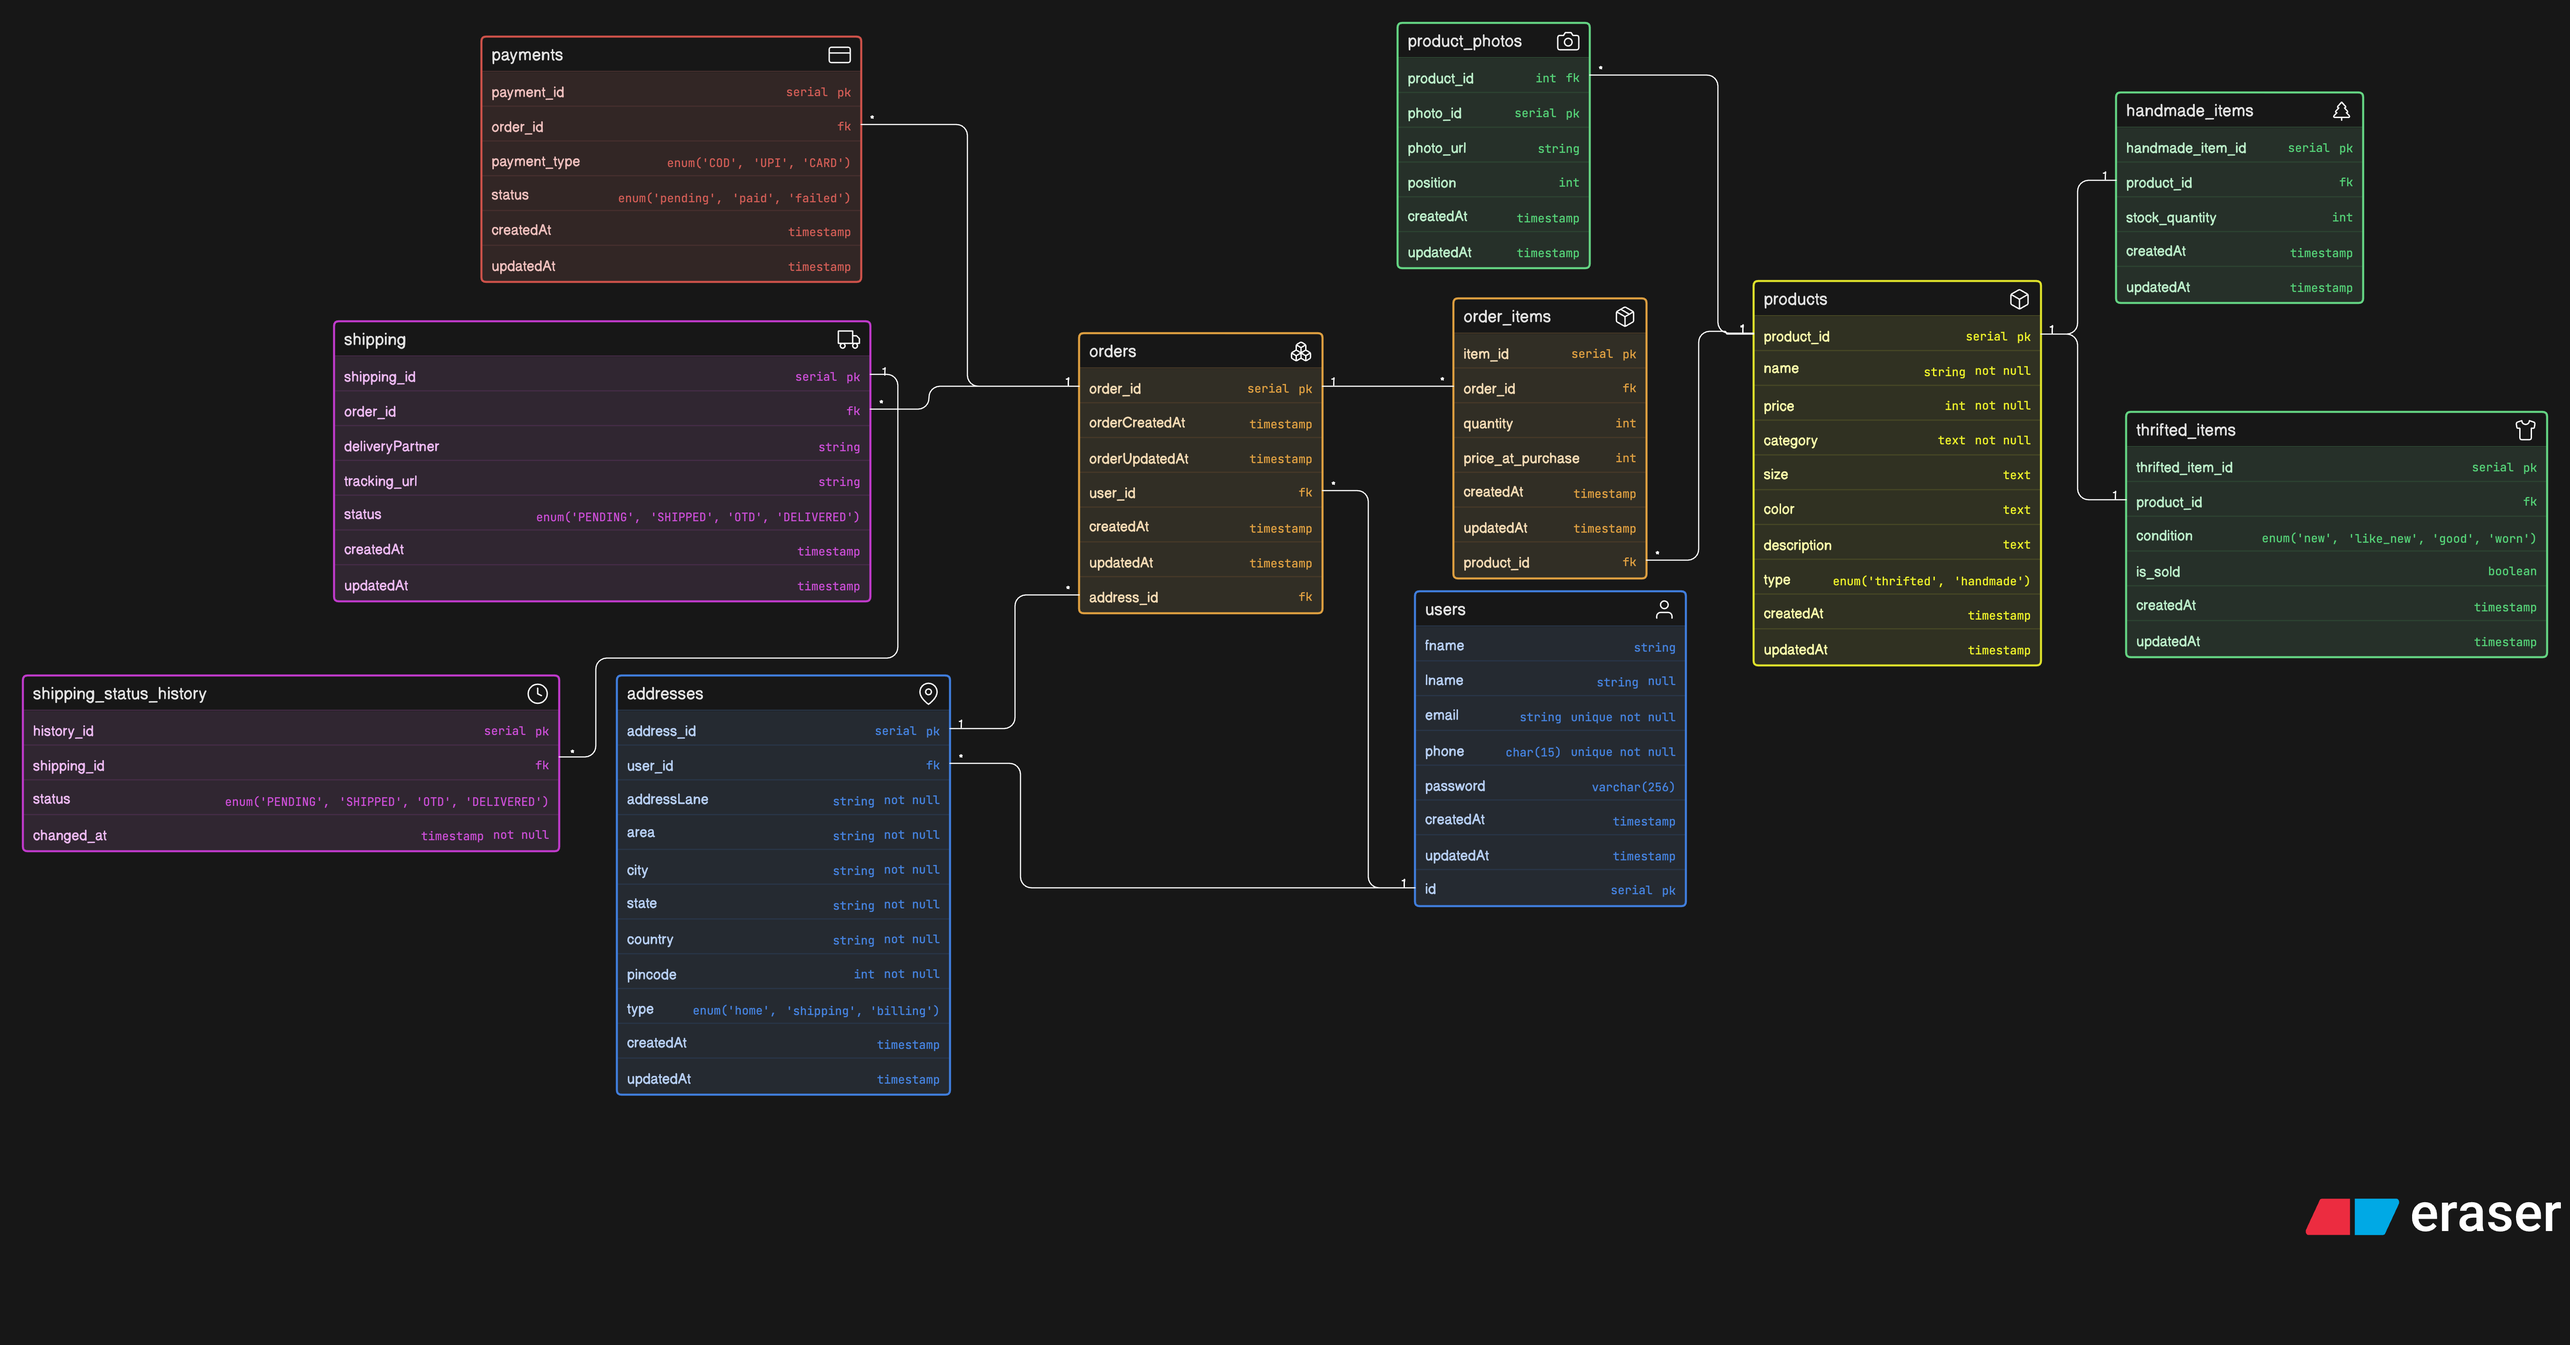
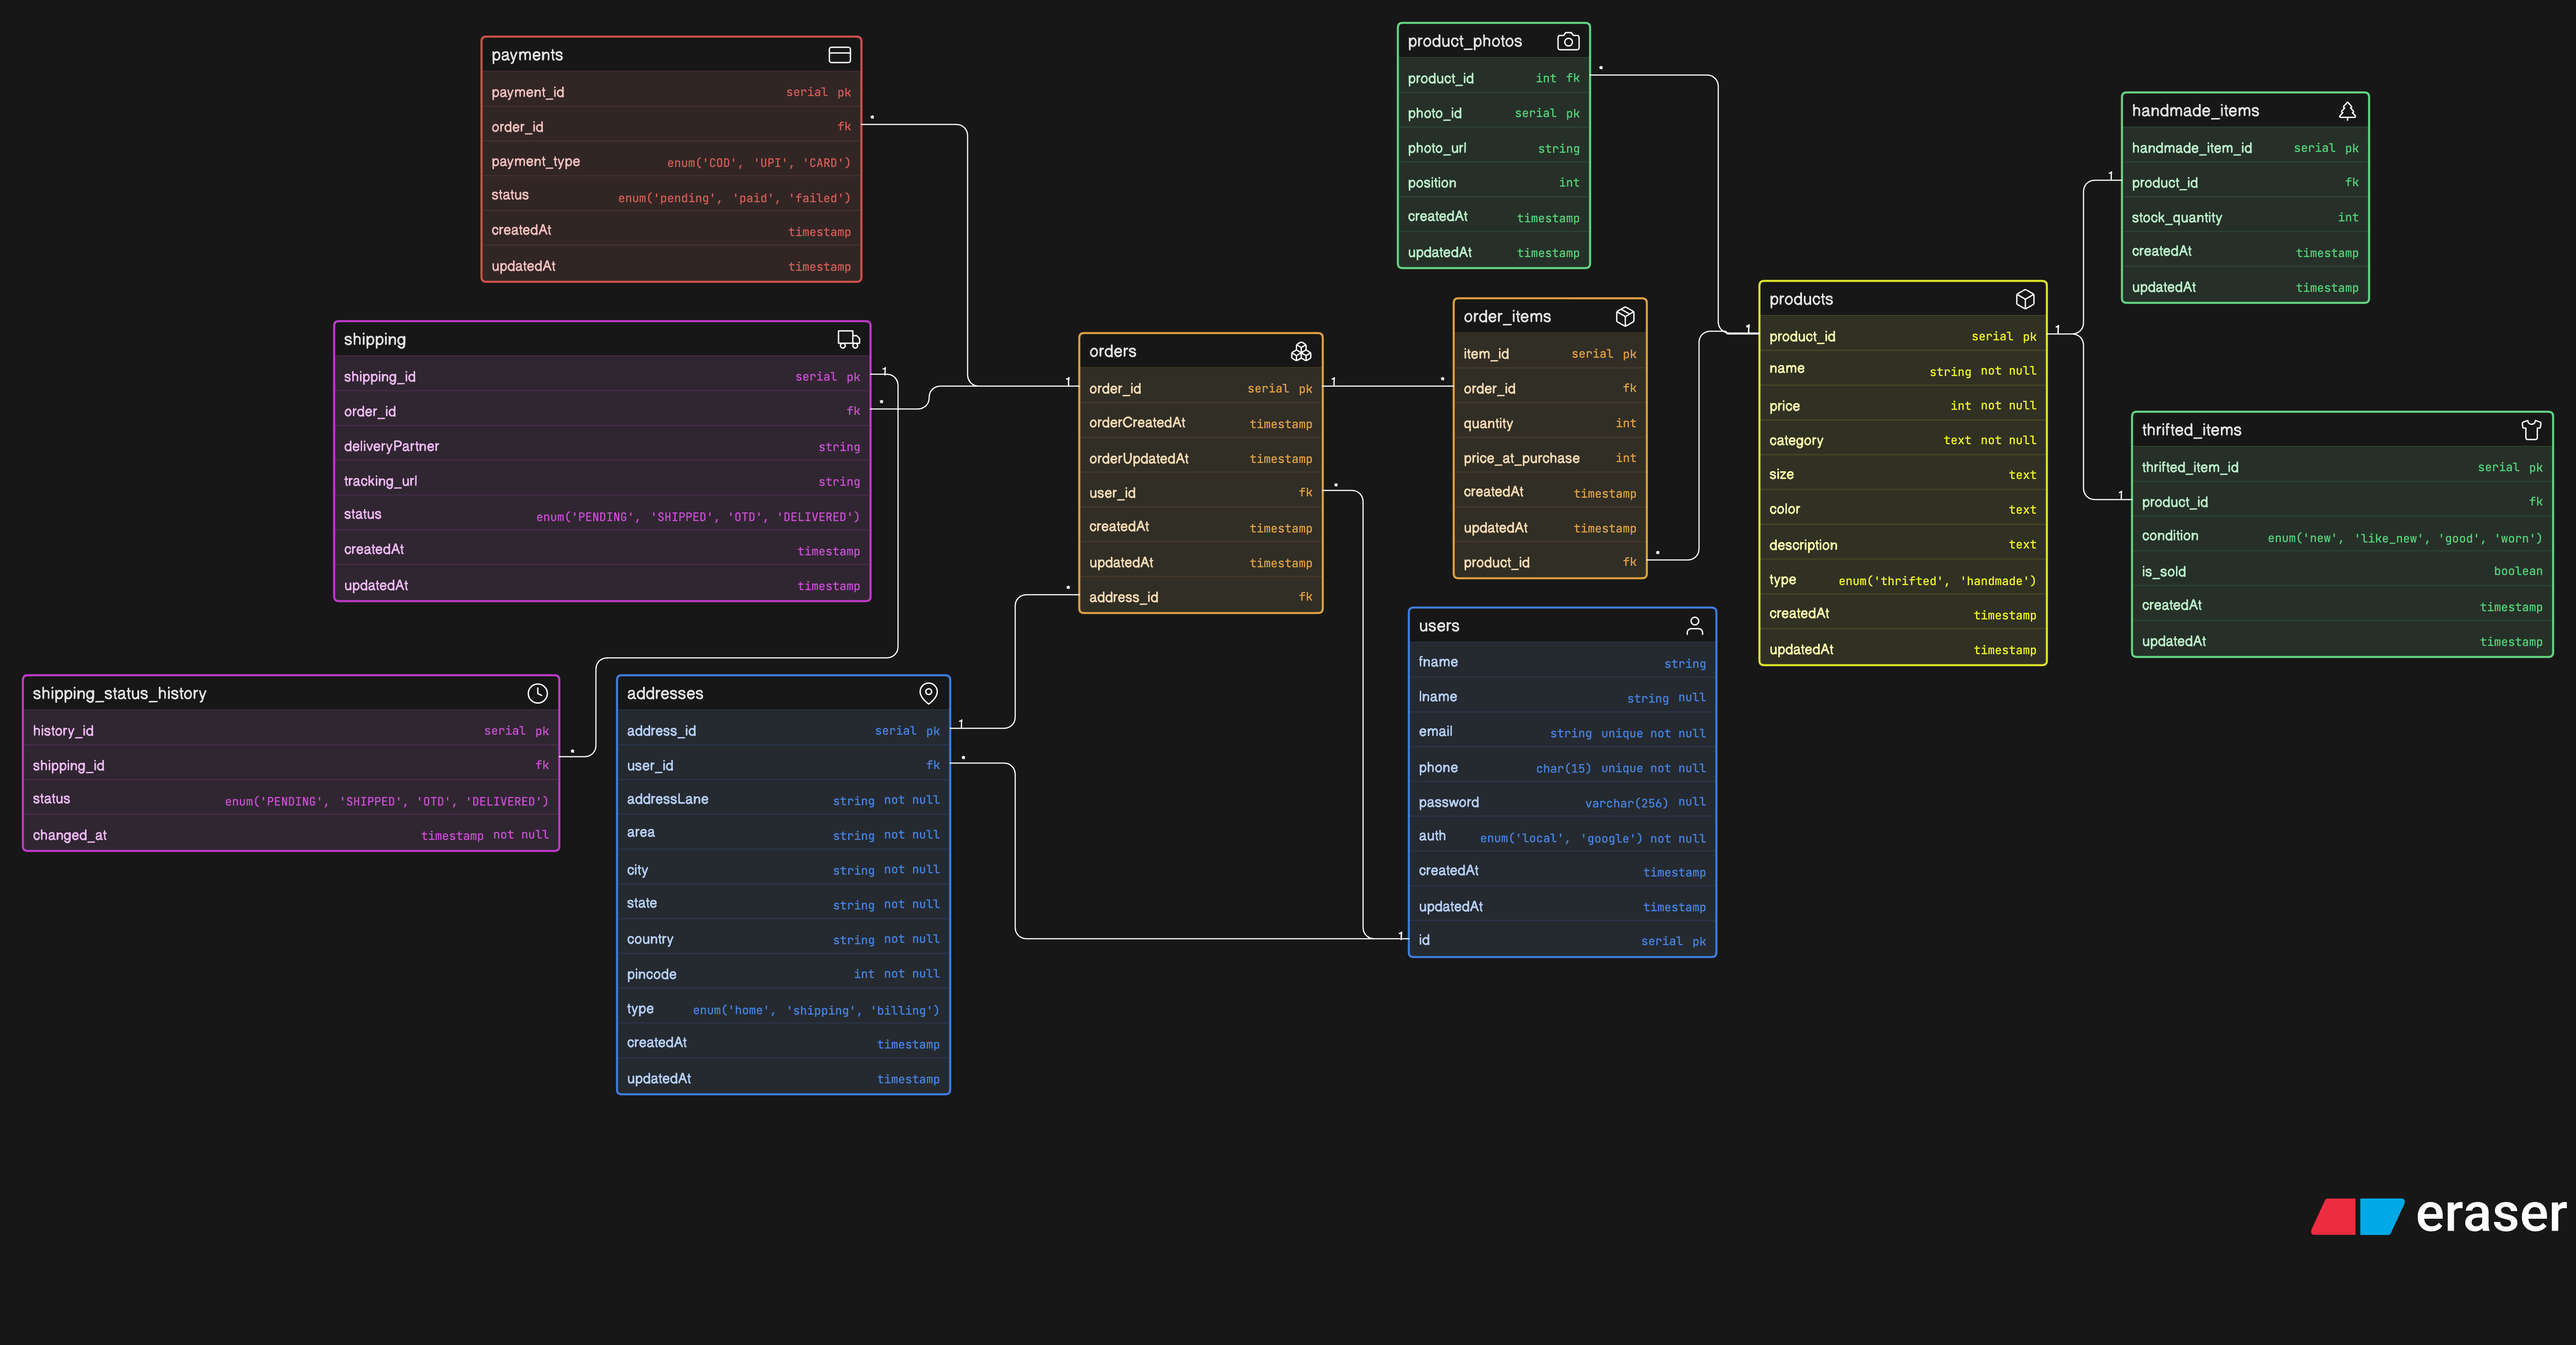
changed the erd as per feedback

diff --git a/Instagram Thrift Creator Store/erd.md b/Instagram Thrift Creator Store/erd.md
@@ -7,7 +7,8 @@ users [icon: user, color: blue] {
   lname string null
   email string unique not null
   phone char(15) unique not null
-  password varchar(256)
+  password varchar(256) null
+  auth enum('local', 'google') not null
 
   createdAt timestamp
   updatedAt timestamp
